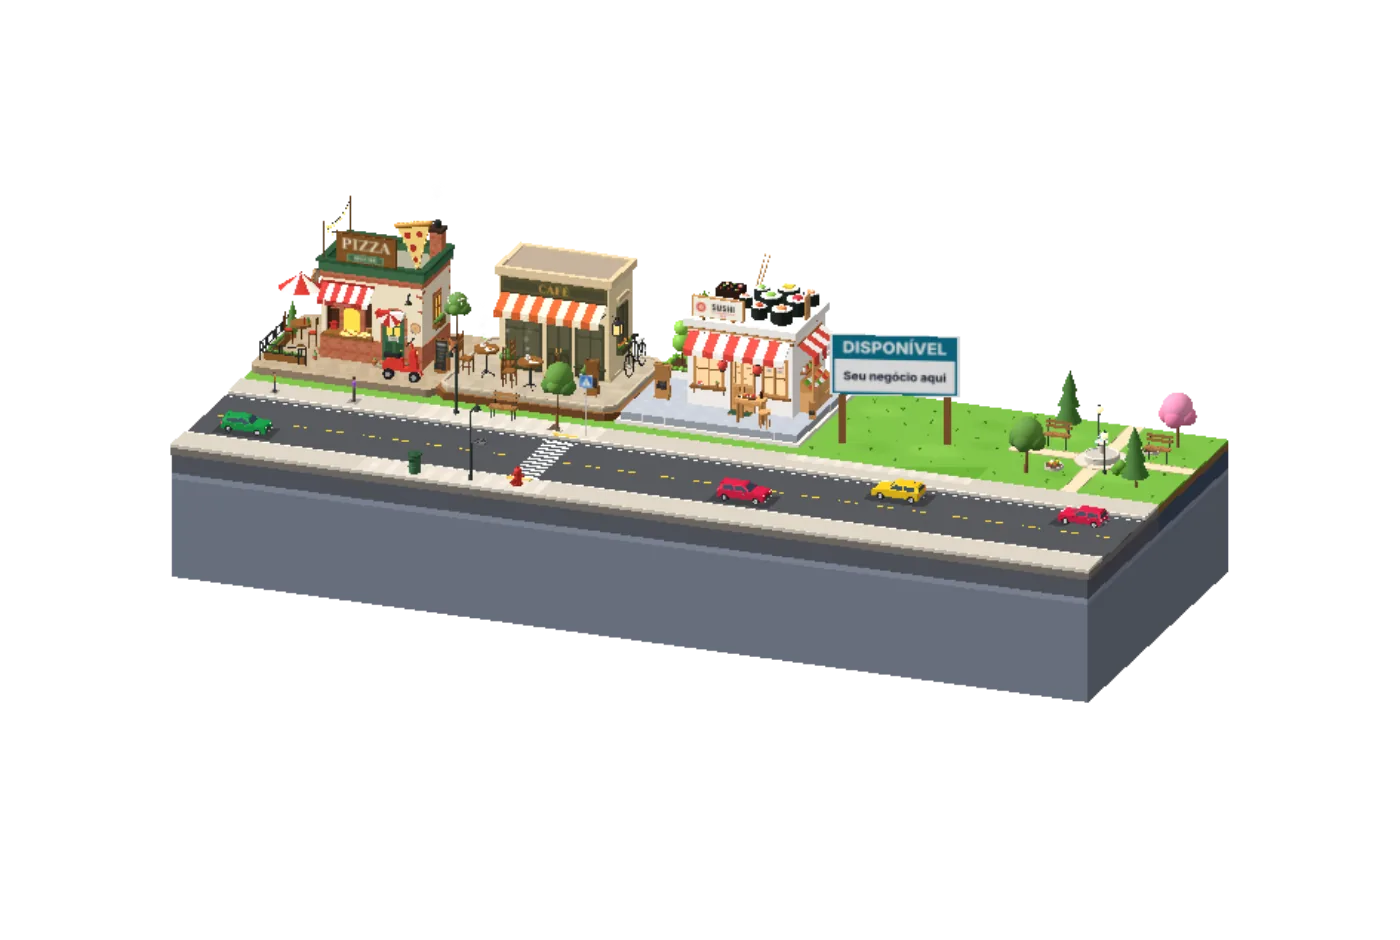
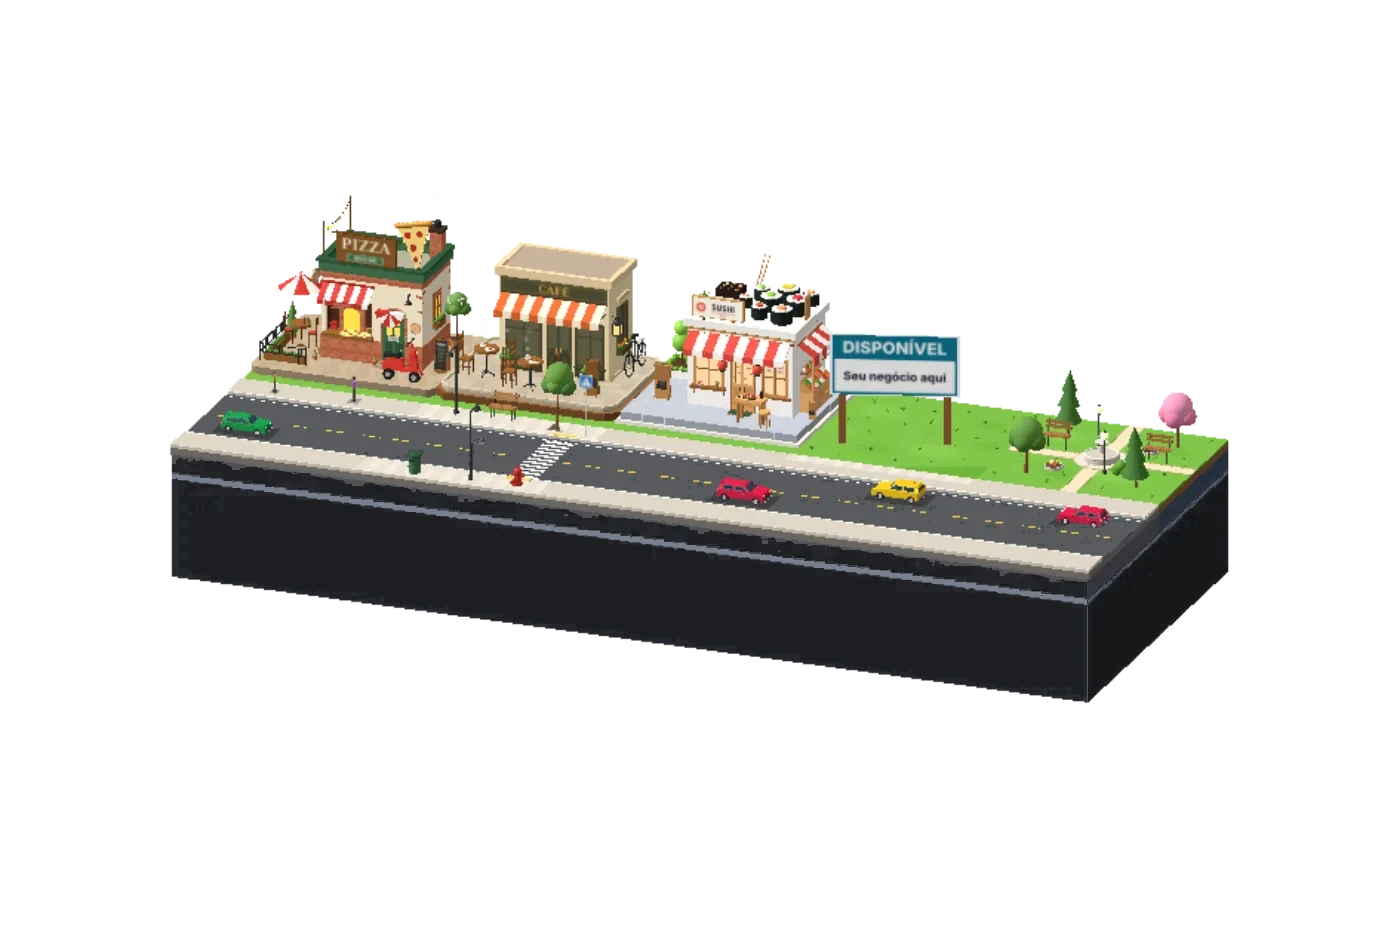
Cidade: base em cinza muito escuro (3D e imagem estática)
Claude-Session: https://claude.ai/code/session_01Ve14ArWY6nEZF1NQoUjJMT

Changed region(s): [[0.1229, 0.4628, 0.8907, 0.7404]]

diff --git a/public/widgets/cidade-isometrica/index.html b/public/widgets/cidade-isometrica/index.html
@@ -253,8 +253,8 @@ if (!window.CITY_FALLBACK) (() => {
   const GROUND_HEIGHT = 6;             // espessura da placa de chão; topo em y = GROUND_HEIGHT
   const ROAD_SURFACE = GROUND_HEIGHT + 2.4;   // topo do asfalto (base dos modelos de rua: 0,08 × escala 30)
   const PEDESTAL_MARGIN = 0;           // borda da base em volta da cidade (0 = do tamanho das células)
-  const PEDESTAL_COLOR = 0x6b7280;     // cor da base (cinza)
-  const PEDESTAL_TOP_COLOR = 0x7b8494; // faixa de cima da base, um tom mais claro
+  const PEDESTAL_COLOR = 0x191b20;     // cor da base (cinza muito escuro, quase preto)
+  const PEDESTAL_TOP_COLOR = 0x23262d; // faixa de cima da base, um tom mais claro
   const PEDESTAL_DEPTH = 34;
 
   // --- Modelos ---
